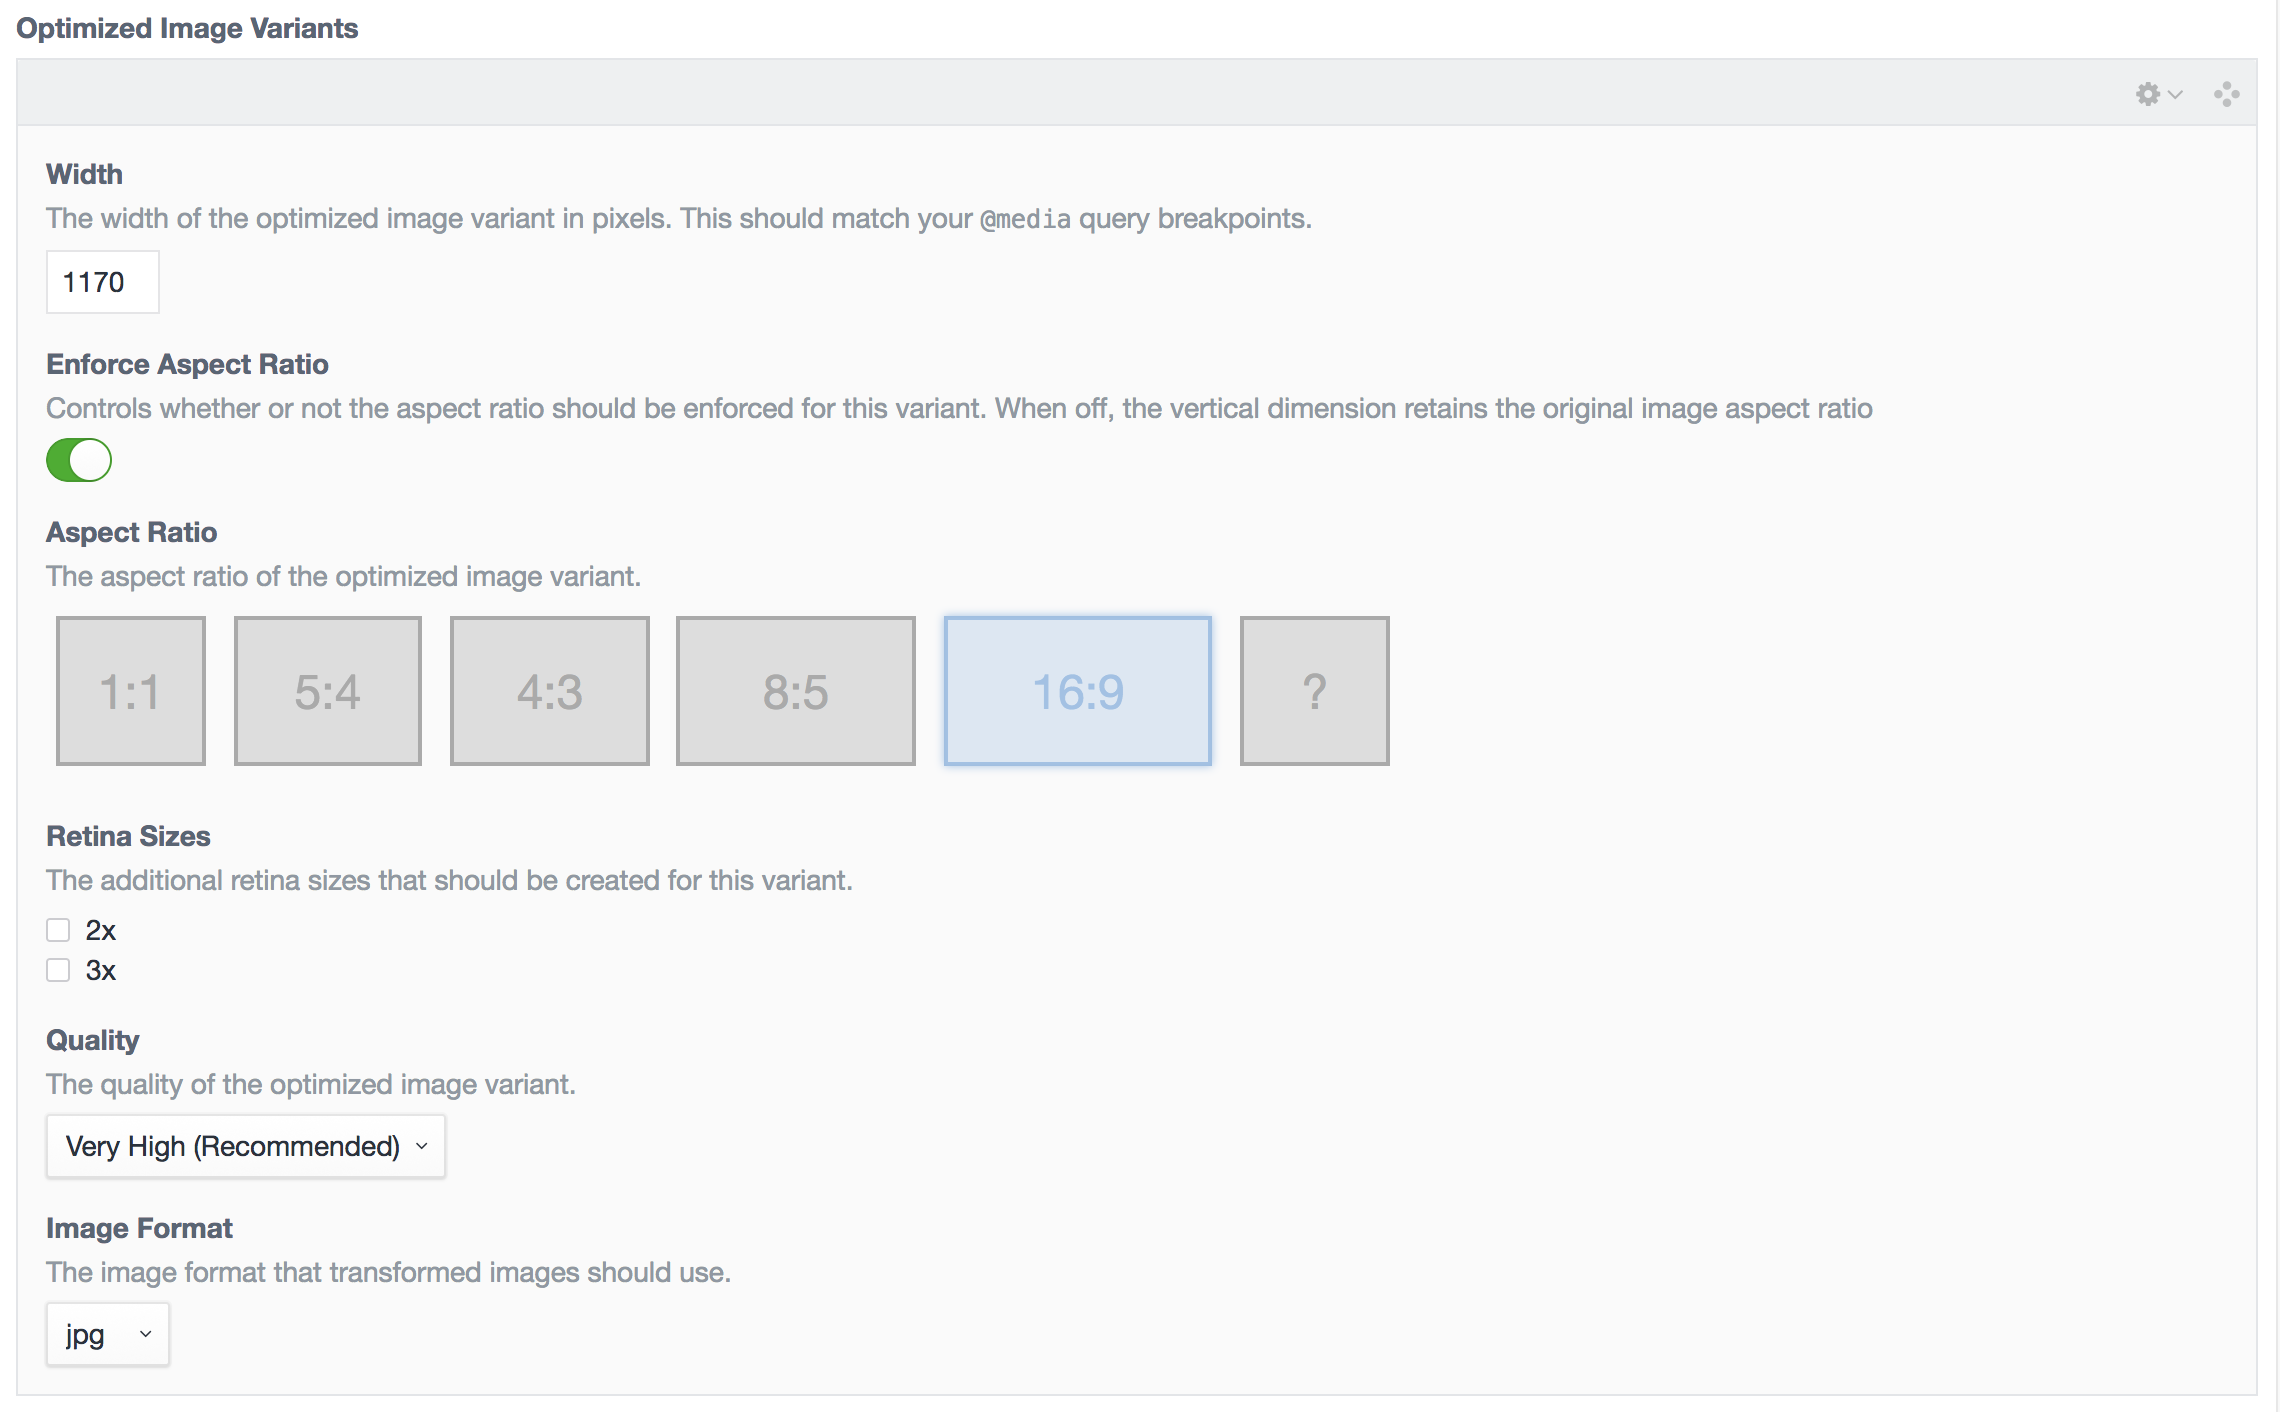
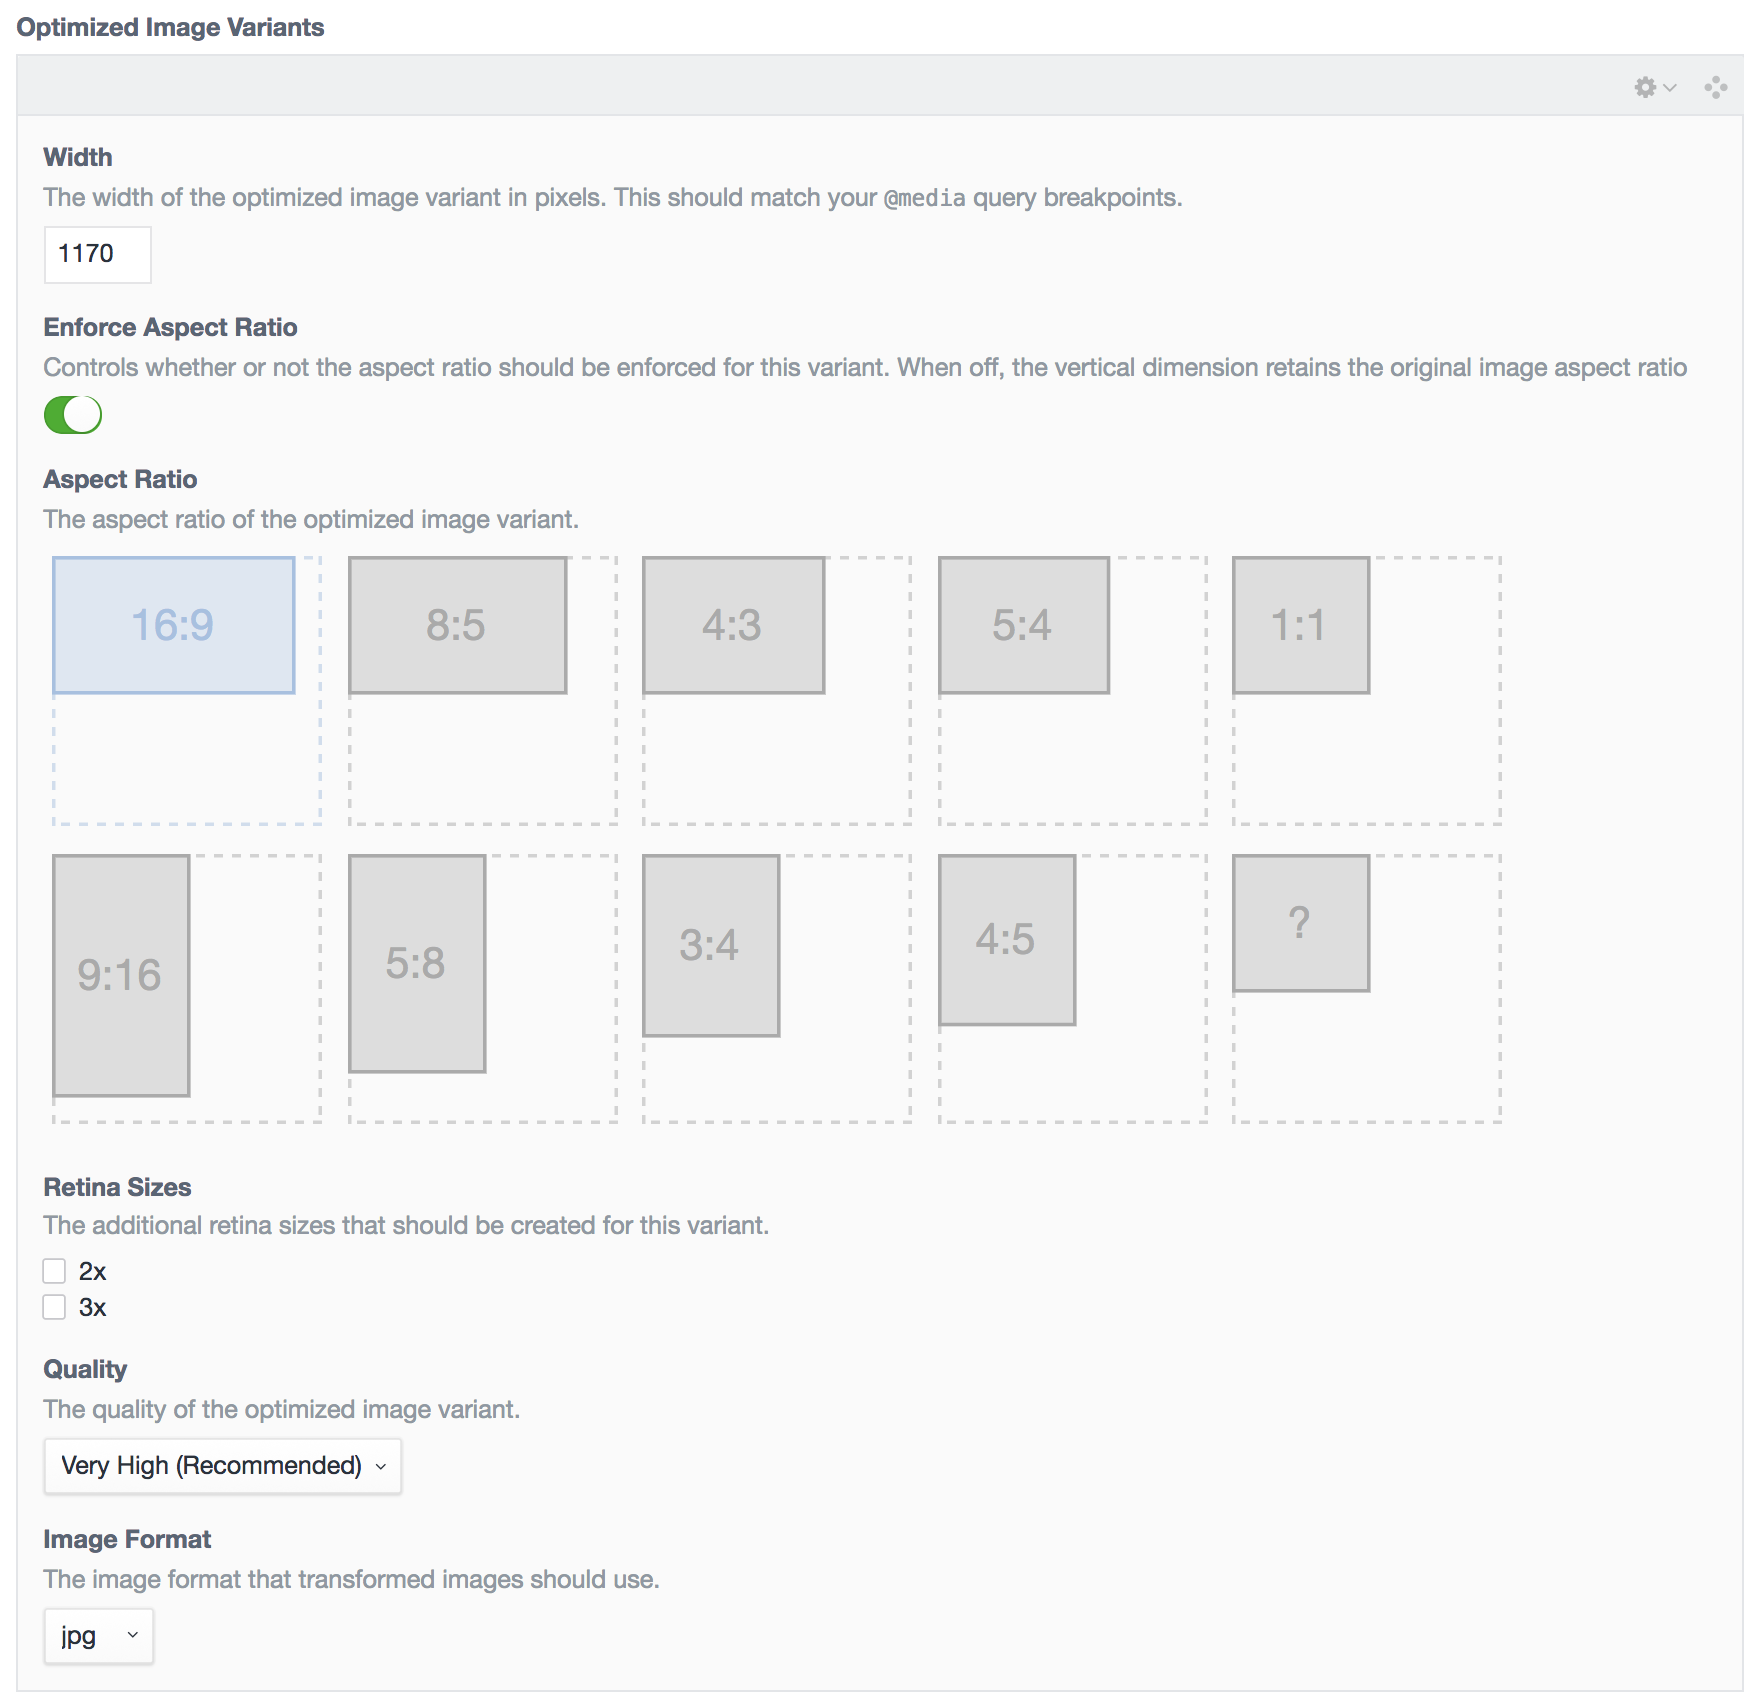
Added portrait default aspect ratios

diff --git a/src/assetbundles/optimizedimagesfield/dist/css/OptimizedImages.css b/src/assetbundles/optimizedimagesfield/dist/css/OptimizedImages.css
@@ -29,16 +29,18 @@
 }
 
 .io-selected-ar-box {
+    /*
     box-shadow: inset 0 0 1px rgba(0, 0, 0, 0.075), 0 0 6px rgba(91,157,217, 0.6);
+     */
 }
 
 .io-select-ar-box.io-selected-ar-box {
-    fill: rgba(91,157,217, .2);
-    stroke: rgba(91,157,217, .5);
+    fill: rgb(221, 231, 242);
+    stroke: rgb(163, 193, 226);
 }
 
 .io-select-ar-box.io-selected-ar-box text {
-    fill: rgba(91,157,217, .5);
+    fill: rgb(163, 193, 226);
     stroke: none;
 }
 
